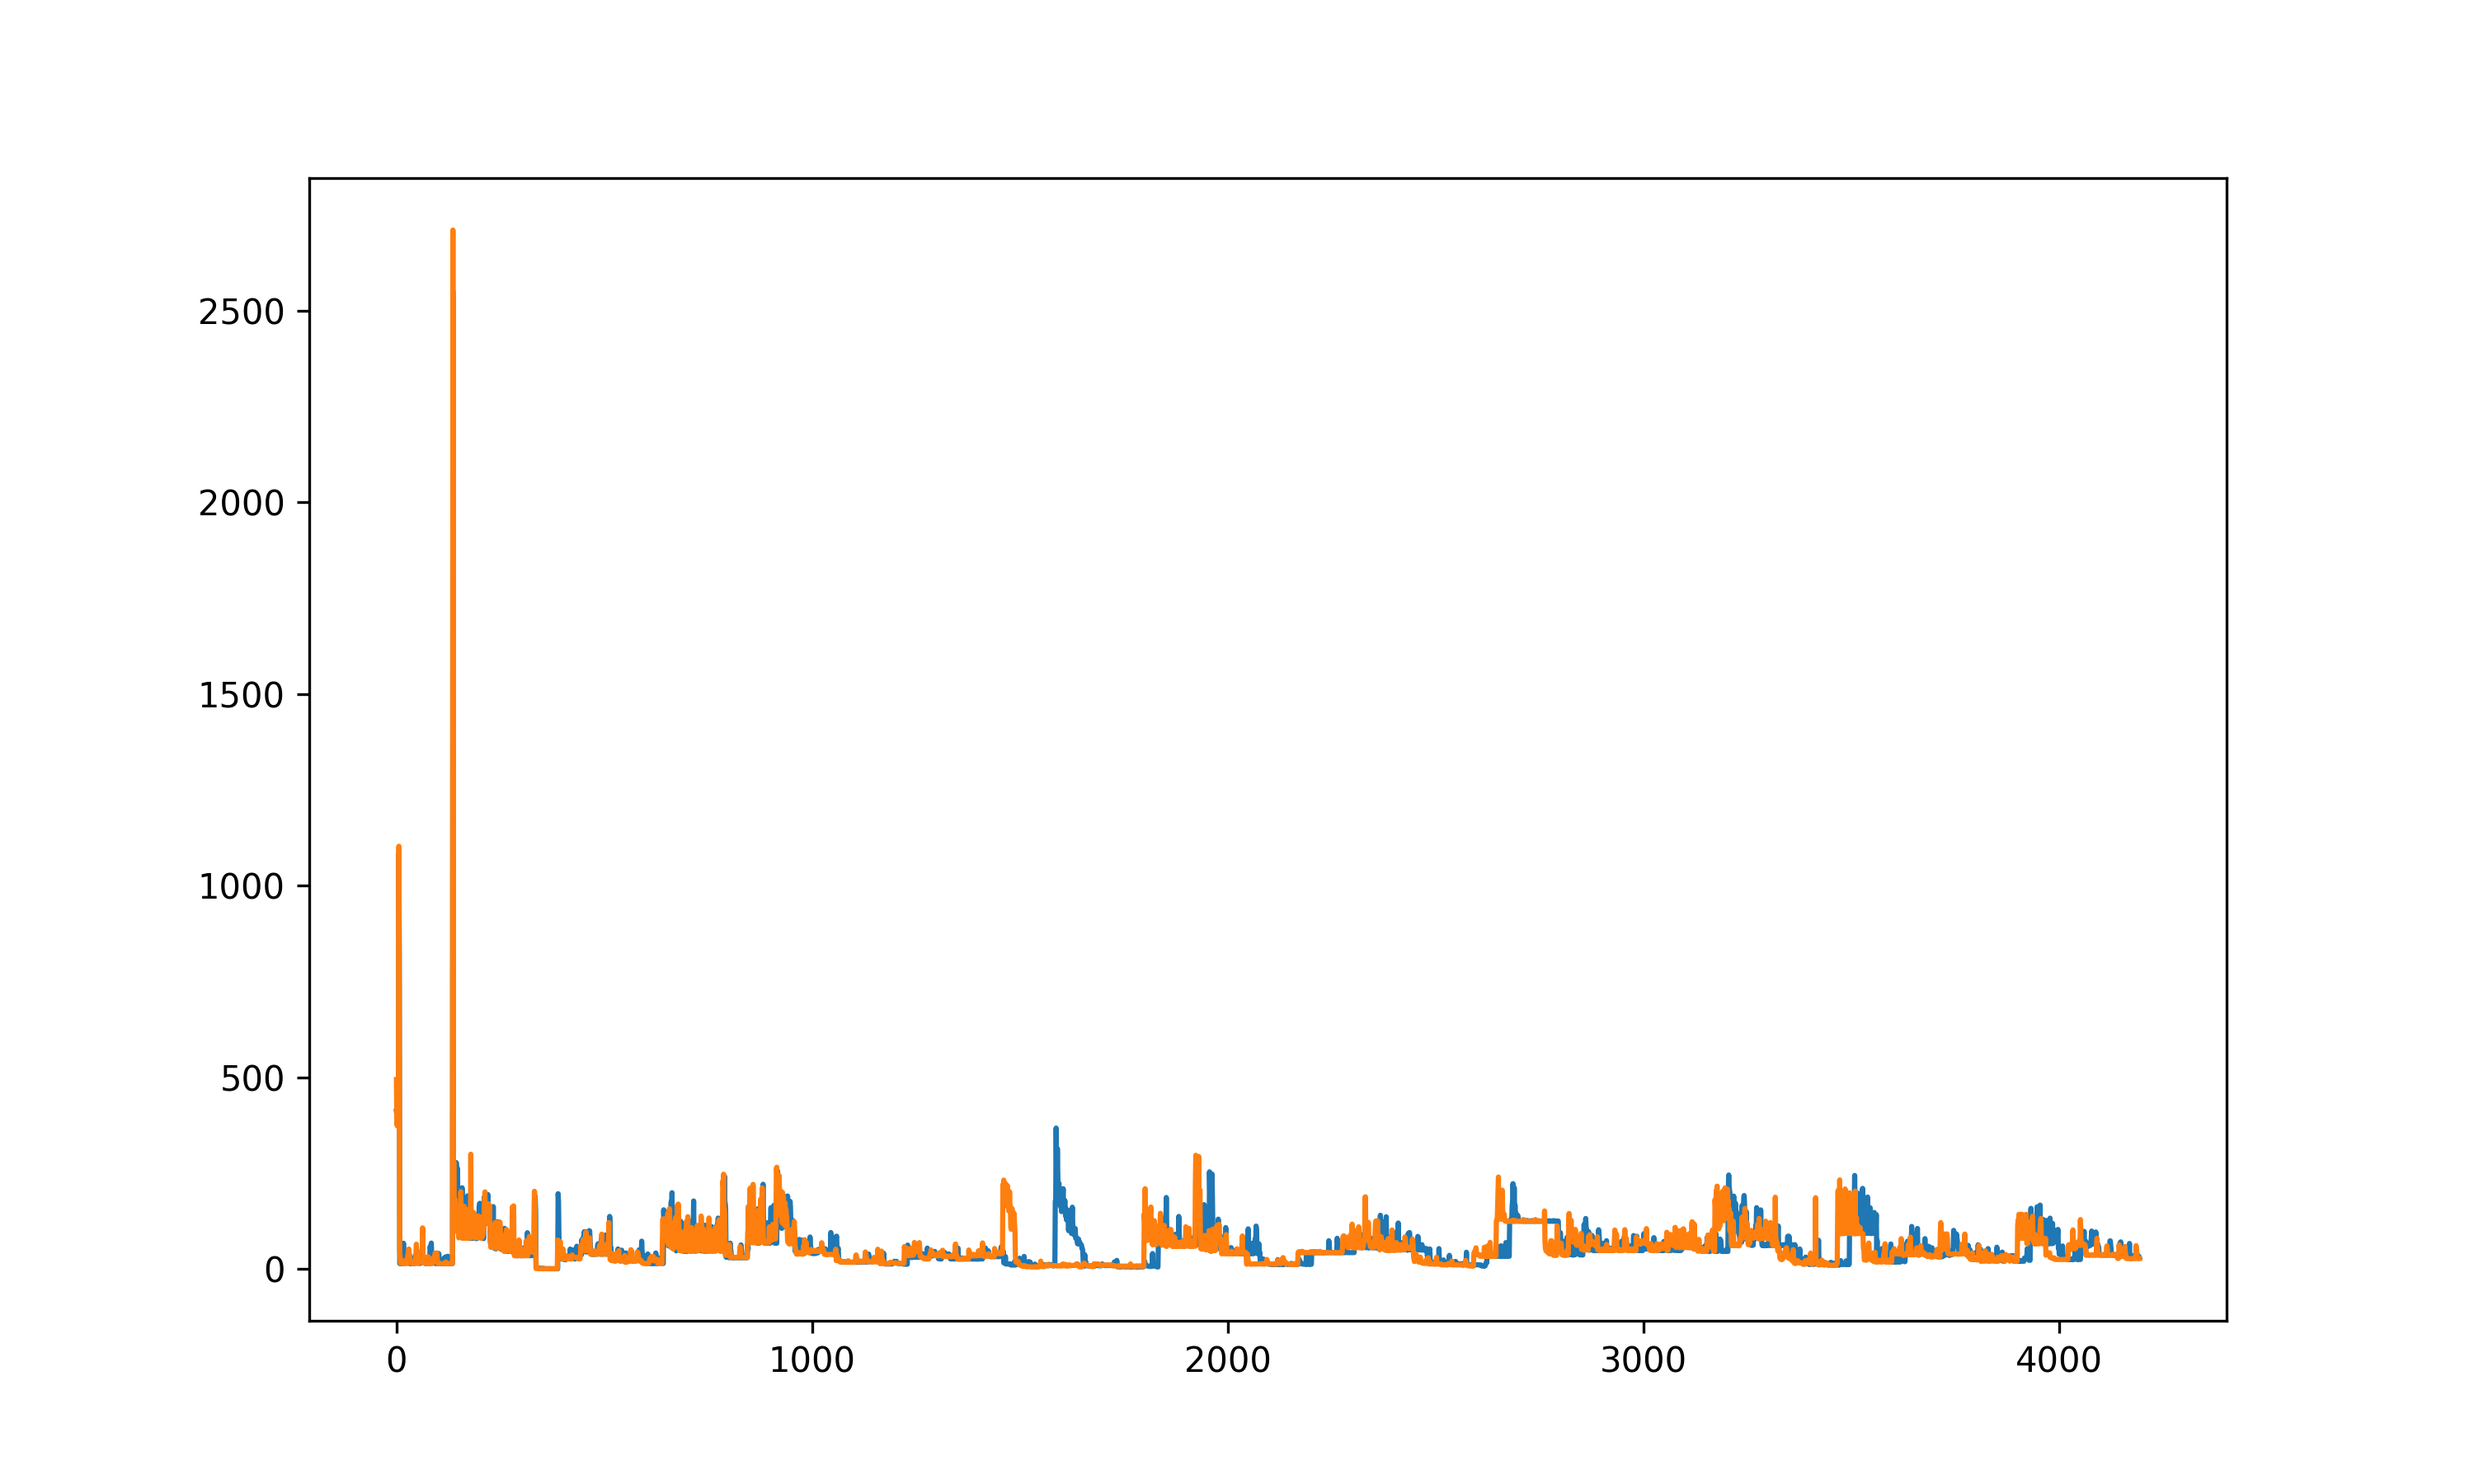
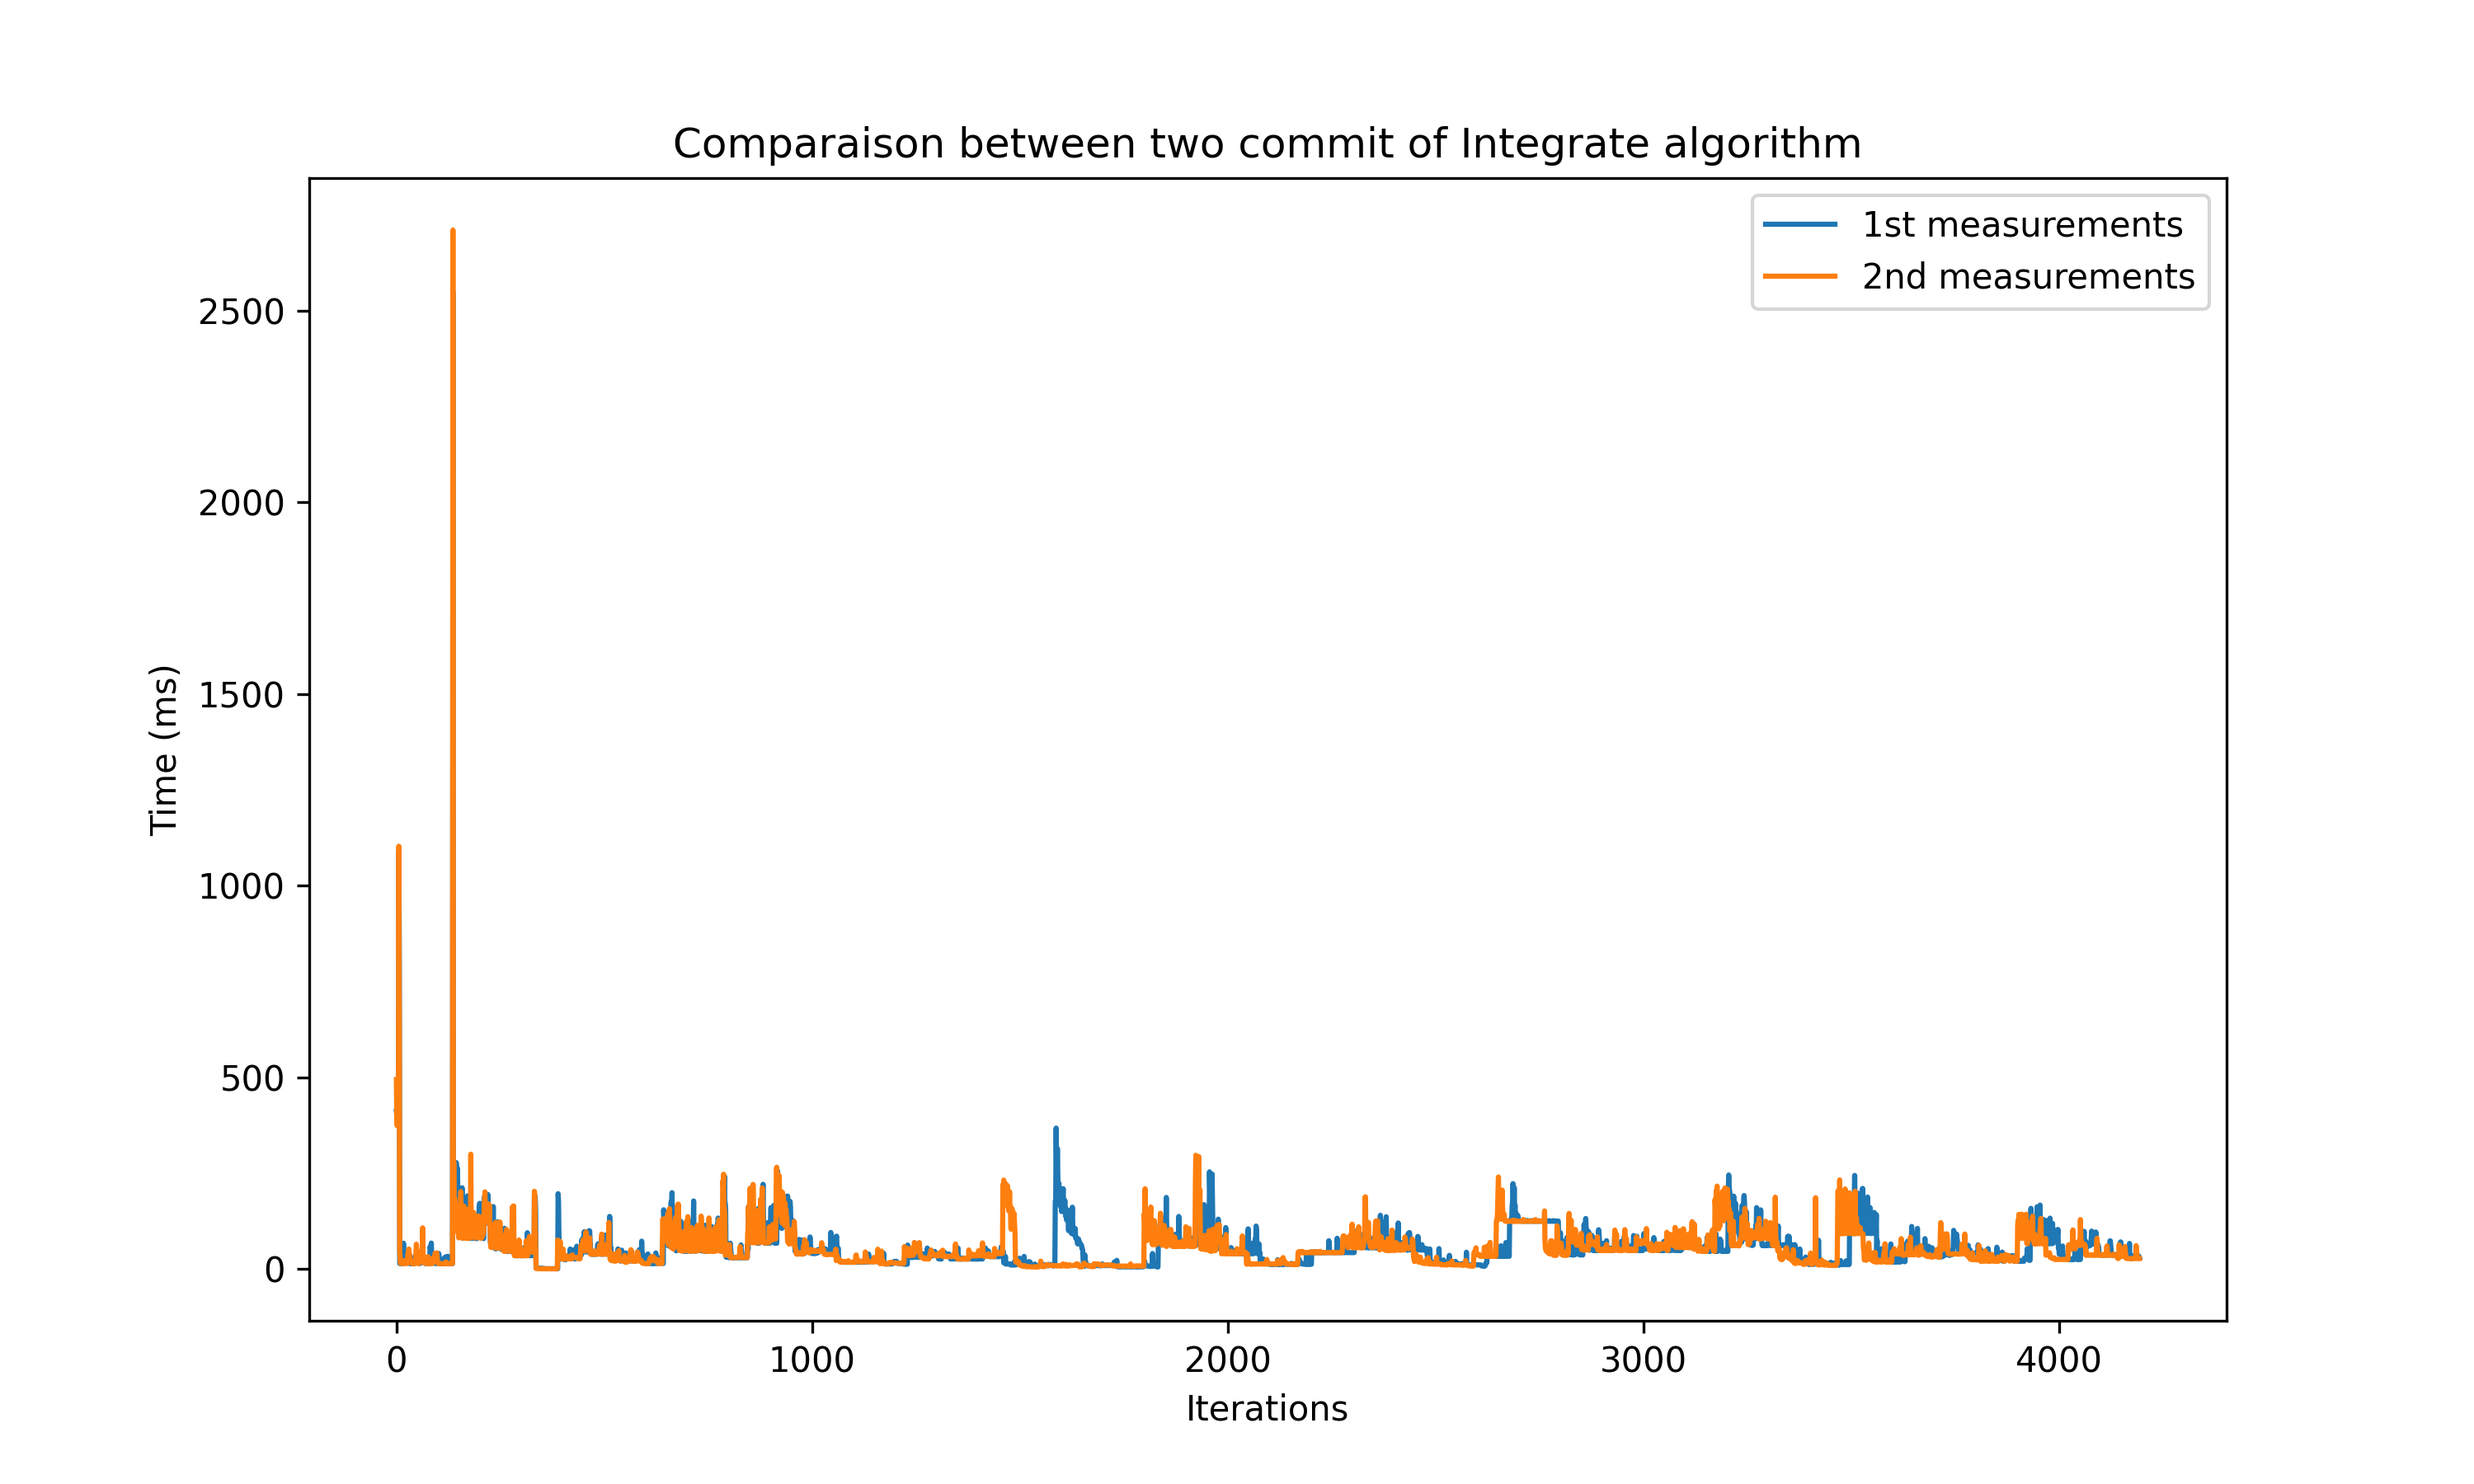
[ADD]: reproduce experiment

Changed region(s): [[0.279, 0.0933, 0.899, 0.2178], [0.465, 0.9333, 0.558, 0.9644], [0.062, 0.4667, 0.093, 0.4978]]

diff --git a/reproduce_experiment/script.py b/reproduce_experiment/script.py
@@ -1,0 +1,125 @@
+from math import log
+from ruptures.base import BaseCost
+import json
+from pathlib import Path
+import math
+import matplotlib.pyplot as plt
+import numpy as np
+import pandas as pd
+import ruptures as rpt
+
+from classify import classify
+from bundle_r import get_changepoints
+
+with open('./data_wallclock_times.json') as f:
+    data = json.load(f)
+
+
+def rolling_window(a, window):
+    shape = a.shape[:-1] + (a.shape[-1] - window + 1, window)
+    strides = a.strides + (a.strides[-1],)
+    return np.lib.stride_tricks.as_strided(a, shape=shape, strides=strides)
+
+
+def is_outlier(value, p25, p75):
+    """Check if value is an outlier
+    """
+    lower = p25 - 1.5 * (p75 - p25)
+    upper = p75 + 1.5 * (p75 - p25)
+    return value <= lower or value >= upper
+
+
+def get_indices_of_outliers(values):
+    """Get outlier indices (if any)
+    """
+    p25 = np.percentile(values, 10)
+    p75 = np.percentile(values, 90)
+
+    indices_of_outliers = []
+    for ind, value in enumerate(values):
+        if is_outlier(value, p25, p75):
+            indices_of_outliers.append(ind)
+    return indices_of_outliers
+
+
+def test(values):
+    windows = []
+    values.rolling(200).apply(
+        lambda x: windows.append(
+            x.values) or 0, raw=False)
+    windows = windows[200:]
+    outliers = np.array([])
+    for i, window in enumerate(windows):
+        indices_of_outliers = np.array(get_indices_of_outliers(window))
+        indices_of_outliers = indices_of_outliers + (200 + (i))
+        outliers = np.unique(
+            np.concatenate(
+                (outliers, indices_of_outliers), 0))
+    return outliers
+
+
+def grouped(iterable, n=2):
+    return zip(*[iter(iterable)] * n)
+
+
+def get_breakpoints_value(values, changepoints):
+    x_list = []
+    y_list = []
+    segments = []
+    for i, changepoint in enumerate(changepoints):
+        x = changepoint
+        if i + 1 < len(changepoints):
+            y = changepoints[i + 1]
+        else:
+            break
+        chunck = values[x:y]
+        x_list.append(x)
+        x_list.append(y)
+        value = chunck.mean()
+        y_list.append(value)
+        y_list.append(value)
+        segment = {}
+        segment['mean'] = chunck.mean()
+        segment['variance'] = chunck.var()
+        segment['start'] = x
+        segment['end'] = y
+        segments.append(segment)
+    return x_list, y_list, segments
+
+
+fig = plt.figure(figsize=(40,10))
+
+
+def analysis(filename, values):
+    values = pd.Series(values)
+    outliers = test(values)
+    ax = fig.add_subplot()
+    values = values.drop(index=outliers)
+    values = values.to_numpy()
+    ax.plot(values, 'b-', label='measurements')
+    breakpoints = get_changepoints(values)
+    breakpoints = np.insert(breakpoints, 0, 0)
+    x, y, segments = get_breakpoints_value(values, breakpoints)
+    ax.plot(
+        x,
+        y,
+        'r-',
+        label='changepoint')
+    ax.legend(loc='best')
+    label = ""
+    label = classify(segments, len(values))
+
+    fig.savefig(
+        '{0}_{1}.png'.format(filename, label), dpi=300)
+
+    plt.clf()
+
+
+for key in data.keys():
+    #key = "binarytrees:HHVM:default-php"
+    path = Path('/'.join(key.split(':')))
+    path.mkdir(parents=True, exist_ok=True)
+    for i, benchmarks_values in enumerate(data[key]):
+        filename = '{0}/plot_{1}'.format('/'.join(key.split(':')), i + 1)
+        analysis(filename, benchmarks_values)
+    #exit(0)

diff --git a/reproduce_experiment/classify.py b/reproduce_experiment/classify.py
@@ -1,0 +1,32 @@
+
+import numpy as np
+
+# From Virtual Machine Warmup Blows Hot and Cold
+
+DELTA = 0.001  # Absolute time delta (in seconds) below which segments are
+# considered equivalent.
+STEADY_STATE_LEN = 500  # How many in-process iterations from the end of the time-series
+# data will a non-equivalent segment trigger "no steady state"?
+
+
+def classify(segs, n_values):
+    assert(len(segs) > 0)
+    last_seg = segs[-1]
+    lower_bound = last_seg['mean'] - max(last_seg['variance'], DELTA)
+    upper_bound = last_seg['mean'] + max(last_seg['variance'], DELTA)
+    label = "flat"
+    i = len(segs) - 2
+    while i > - 1:
+        seg = segs[i]
+        i -= 1
+        if seg['mean'] + seg['variance'] >= lower_bound and seg['mean'] - seg['variance'] <= upper_bound:
+            continue
+        elif seg['end'] > n_values - STEADY_STATE_LEN:
+            label = "no steady state"
+            break
+        elif seg['mean'] < lower_bound:
+            label = "slowdown"
+            break
+        assert(seg['mean'] > upper_bound)
+        label = "warmup"
+    return label

diff --git a/reproduce_experiment/bundle_r.py b/reproduce_experiment/bundle_r.py
@@ -1,0 +1,18 @@
+
+from rpy2.robjects.packages import importr, data
+from rpy2 import robjects
+import numpy as np
+from pprint import pprint
+changepoint = importr('changepoint')
+stats = importr('stats')
+
+
+def get_changepoints(values):
+    rvalues = robjects.FloatVector(values)
+    rpen_value = float(15.0 * np.log(len(values)))
+    r = changepoint.cpt_meanvar(
+        rvalues,
+        method='PELT',
+        penalty='Manual',
+        pen_value=float(15.0*np.log(values.shape[0])))
+    return np.asarray(r.slots['cpts'])

diff --git a/compare/compare.py b/compare/compare.py
@@ -119,6 +119,10 @@ def compare(
     ax = fig.add_subplot()
     ax.plot(first_measurements_data, label='1st measurements')
     ax.plot(last_measurements_data, label='2nd measurements')
+    ax.set_title('Comparaison between two commit of {} algorithm'.format(benchmark_name))
+    ax.set_xlabel('Iterations')
+    ax.set_ylabel('Time (ms)')
+    ax.legend()
     filename = "plot_from_compare/plot_{0}_{1}.png".format(
         benchmark_name, value_directed)
 
